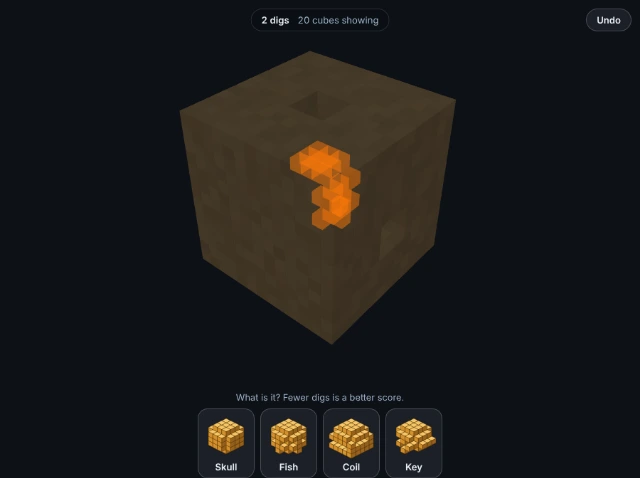
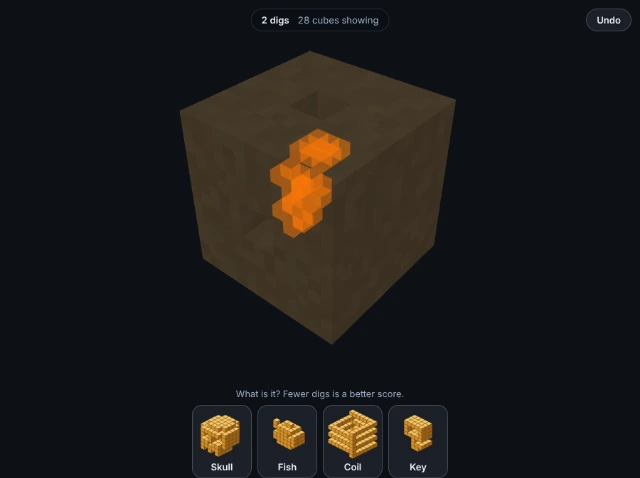
Voxel Digger: redraw the four shapes at seven cubes a side (#153)
At five cubes a side the shapes were blobs under a shared two-layer cap,
and none looked like its name: the skull's eye sockets were sealed
inside it. They are redrawn at seven with no shared cap: a skull with a
domed cranium, open sockets, a nose hole and teeth; a side-on fish with a
forked tail, fins and an eye; a coil that winds half a turn a layer; a
key with a ring, shaft and teeth. The cube edges are thinner and softer,
and the pictures scale with the shape size.

None of the four has a pocket sealed inside it, so dig_test stages one
for its control. The coil is hollow, so a drill down its middle finds
nothing; the touch suite now deals each shape in turn and works outward
from the middle, with the glow control fixed on the skull. The hub card
always deals the skull, so it is the same picture each time.

Claude-Session: https://claude.ai/code/session_01HqZ8yotHENtD7pp8pJBJoe

Changed region(s): [[0.3125, 0.8201, 0.6875, 1.0], [0.4062, 0.2636, 0.5625, 0.4979], [0.4062, 0.9958, 0.4375, 1.0]]

diff --git a/voxel-digger/block.ts b/voxel-digger/block.ts
@@ -37,7 +37,7 @@ export interface Block {
 }
 
 /** Every shape is authored in a cube this many cells on a side. */
-export const SHAPE_SIZE = 5
+export const SHAPE_SIZE = 7
 
 export function makeBlock(size: number, shapeSize = SHAPE_SIZE): Block {
   return { size, shapeSize, shapeMin: Math.floor((size - shapeSize) / 2) }
@@ -50,8 +50,10 @@ export function makeBlock(size: number, shapeSize = SHAPE_SIZE): Block {
  * surface and the find and the best possible round is three digs, which leaves
  * a score of "how few digs" almost nothing to say. Four cells of cover puts
  * the floor around five and gives a careful player somewhere to be careful.
- * (Written when a dig was one cube. A drill reaches the find in one tap
- * whatever the cover, #152; the cover is now what makes the find a surprise.)
+ * (Written when a dig was one cube and the shapes were five on a side. A
+ * drill reaches the find in one tap whatever the cover, #152, and the shapes
+ * are seven on a side, #153, under three cells of cover: enough to hide what
+ * is buried, in a block small enough that the find is most of what you see.)
  */
 export const BLOCK = makeBlock(13)
 
@@ -93,73 +95,79 @@ export interface Shape {
 /**
  * Four things that could be down there.
  *
- * What matters is not that they look different. Ruling a candidate out means
- * exposing one cell where it and the truth disagree — so every pair has to
- * disagree somewhere the player can actually *get to*. A difference sealed
- * inside the shape is invisible for ever: rock cannot be dug through the
- * buried object, so a pocket enclosed on all six faces by shape is unreachable
- * whatever the budget. The skull has two such pockets, its eye sockets, and
- * two candidates differing only there would be indistinguishable while
- * rendering as obviously different objects.
+ * Drawn seven cubes on a side (#153). At five they were blobs that shared
+ * their top two layers — a cap added so the first dig told nothing — and none
+ * of them looked like its name: the skull's eye sockets were sealed inside it.
+ * At seven there is room for the features a name promises, and each is drawn
+ * to be recognised from its front, which faces +z: the bottom row of every
+ * layer below.
  *
- * `dig_test.ts` puts that layout back and checks the solver cannot separate
- * it, because it is not a mistake anyone would catch by reading.
+ * What matters for play is not that they look different but that every pair
+ * disagrees somewhere the player can *get to*. A difference sealed inside a
+ * shape is invisible for ever: rock cannot be dug through the buried object,
+ * so a pocket enclosed on all six faces is unreachable. None of these has
+ * one, and `dig_test.ts` stages one to check it would be caught.
  */
-/**
- * The two top layers, which every candidate shares.
- *
- * Without this the puzzle was over on the third dig: the natural first move is
- * straight down, and whatever it uncovered was unique to one shape. Sharing
- * the cap means the first thing you reach tells you only that you have reached
- * it, and the shapes have to be told apart lower down or from the side —
- * which is what makes the digging a decision rather than a formality.
- */
-const CAP_TOP = ['.....', '.###.', '.###.', '.###.', '.....']
-const CAP_UPPER = ['.###.', '#####', '#####', '#####', '.###.']
-
 export const SHAPES: Shape[] = [
   {
     id: 'skull',
     name: 'Skull',
+    // A domed cranium over two open sockets, a nose hole, and a narrower jaw
+    // with a row of teeth.
     layers: [
-      ['.....', '.###.', '.#.#.', '.###.', '.....'],
-      ['.###.', '#####', '#.#.#', '#####', '.###.'],
-      ['.###.', '#####', '#####', '#####', '.###.'],
-      CAP_UPPER,
-      CAP_TOP,
+      ['.......', '.......', '..###..', '.#####.', '.#####.', '.#####.', '.#.#.#.'],
+      ['.......', '..###..', '.#####.', '.#####.', '.#####.', '.#####.', '.#####.'],
+      ['..###..', '.#####.', '#######', '#######', '#######', '###.###', '.##.##.'],
+      ['..###..', '.#####.', '#######', '#######', '#######', '#..#..#', '...#...'],
+      ['..###..', '.#####.', '#######', '#######', '#######', '#..#..#', '...#...'],
+      ['..###..', '.#####.', '#######', '#######', '#######', '#######', '.#####.'],
+      ['.......', '..###..', '.#####.', '.#####.', '.#####.', '..###..', '.......'],
     ],
   },
   {
     id: 'fish',
     name: 'Fish',
+    // Side-on: a forked tail at the left, a fin above and below, and an eye
+    // that goes clean through the head. The body is three cubes thick and the
+    // tail and fins one, so it reads as a fish from the side and as a blade
+    // from either end.
     layers: [
-      ['..#..', '.###.', '#####', '.###.', '..#..'],
-      ['.###.', '#####', '#####', '#####', '.###.'],
-      ['..#..', '.###.', '#####', '.###.', '..#..'],
-      CAP_UPPER,
-      CAP_TOP,
+      ['.......', '.......', '.......', '...##..', '.......', '.......', '.......'],
+      ['.......', '.......', '..####.', '#.####.', '..####.', '.......', '.......'],
+      ['.......', '.......', '..#####', '#######', '..#####', '.......', '.......'],
+      ['.......', '.......', '..#####', '.######', '..#####', '.......', '.......'],
+      ['.......', '.......', '..###.#', '#####.#', '..###.#', '.......', '.......'],
+      ['.......', '.......', '..####.', '#.####.', '..####.', '.......', '.......'],
+      ['.......', '.......', '.......', '...##..', '.......', '.......', '.......'],
     ],
   },
   {
     id: 'coil',
     name: 'Coil',
+    // A spring: one continuous strip winding up the outside, half a turn to
+    // a layer, around an empty middle.
     layers: [
-      ['#####', '#...#', '#...#', '#...#', '#####'],
-      ['....#', '....#', '....#', '....#', '....#'],
-      ['#####', '#....', '#....', '#....', '#####'],
-      CAP_UPPER,
-      CAP_TOP,
+      ['#######', '......#', '......#', '......#', '......#', '......#', '......#'],
+      ['#......', '#......', '#......', '#......', '#......', '#......', '#######'],
+      ['#######', '......#', '......#', '......#', '......#', '......#', '......#'],
+      ['#......', '#......', '#......', '#......', '#......', '#......', '#######'],
+      ['#######', '......#', '......#', '......#', '......#', '......#', '......#'],
+      ['#......', '#......', '#......', '#......', '#......', '#......', '#######'],
+      ['#######', '......#', '......#', '......#', '......#', '......#', '......#'],
     ],
   },
   {
     id: 'key',
     name: 'Key',
+    // Standing on its bit: a ring to hold it by, a shaft, and two teeth.
     layers: [
-      ['.###.', '.#.#.', '.###.', '..#..', '..#..'],
-      ['#####', '##.##', '#####', '.###.', '.#.#.'],
-      ['.###.', '.#.#.', '.###.', '..#..', '..#..'],
-      CAP_UPPER,
-      CAP_TOP,
+      ['.......', '.......', '...##..', '...##..', '...##..', '.......', '.......'],
+      ['.......', '.......', '...###.', '...###.', '...###.', '.......', '.......'],
+      ['.......', '.......', '...#...', '...#...', '...#...', '.......', '.......'],
+      ['.......', '.......', '.#####.', '.#####.', '.#####.', '.......', '.......'],
+      ['.......', '.......', '.#...#.', '.#...#.', '.#...#.', '.......', '.......'],
+      ['.......', '.......', '.#...#.', '.#...#.', '.#...#.', '.......', '.......'],
+      ['.......', '.......', '.#####.', '.#####.', '.#####.', '.......', '.......'],
     ],
   },
 ]

diff --git a/voxel-digger/dig_test.ts b/voxel-digger/dig_test.ts
@@ -11,10 +11,10 @@
 // budget is not the only thing that can make a layout unwinnable: two shapes
 // that differ *only* inside a pocket sealed on all six faces by shape cells
 // can never be told apart, because rock cannot be dug through the buried
-// object and the difference is behind it. No budget fixes that. The skull has
-// two such pockets — its eye sockets — so the layout is one edit away from
-// shipping, and it would render as two obviously different objects while being
-// literally indistinguishable in play.
+// object and the difference is behind it. No budget fixes that. The first
+// skull, five cubes on a side, had two such pockets — its eye sockets — so the
+// layout was one edit away from shipping two obviously different objects that
+// were literally indistinguishable in play.
 import {
   BLOCK,
   PROOF_BUDGET,
@@ -160,37 +160,56 @@ for (const shape of SHAPES) {
   )
 }
 
+/**
+ * A shape with one cube taken out of its solid middle: a pocket of rock
+ * sealed on all six faces by the shape itself.
+ *
+ * Staged rather than found. The five-cube skull had two of these by accident
+ * — its eye sockets — which is how the failure was first noticed; the shapes
+ * drawn in #153 have none, so the control builds its own.
+ */
+function hollowed(shape: Shape): Shape {
+  const has = (x: number, y: number, z: number) => shape.layers[y]?.[z]?.[x] === '#'
+  for (let y = 1; y < shape.layers.length - 1; y++) {
+    for (let z = 1; z < shape.layers[y].length - 1; z++) {
+      for (let x = 1; x < shape.layers[y][z].length - 1; x++) {
+        const buried =
+          has(x, y, z) && has(x - 1, y, z) && has(x + 1, y, z) && has(x, y - 1, z) && has(x, y + 1, z) && has(x, y, z - 1) && has(x, y, z + 1)
+        if (!buried) continue
+        return {
+          id: `${shape.id}-hollowed`,
+          name: `${shape.name} with a hollow`,
+          layers: shape.layers.map((plane, i) =>
+            i === y ? plane.map((line, j) => (j === z ? line.slice(0, x) + '.' + line.slice(x + 1) : line)) : plane,
+          ),
+        }
+      }
+    }
+  }
+  throw new Error(`${shape.name} has no solid middle to hollow`)
+}
+
 {
-  // The failure a budget cannot fix. `skull` has rock pockets sealed on all
-  // six faces by its own cells; a candidate that differs from it only there is
-  // unreachable however long you dig.
+  // The failure a budget cannot fix: a candidate that differs from another
+  // only in rock sealed inside it is unreachable however long you dig.
   const skull = SHAPES.find((s) => s.id === 'skull')
   if (!skull) throw new Error('the skull is gone')
   const cells = cellsOf(BLOCK, skull)
-  const sealed = allCells(BLOCK).filter(
-    (k) =>
-      !cells.has(k) &&
-      neighbours(BLOCK, k).length === 6 &&
-      neighbours(BLOCK, k).every((n) => cells.has(n)),
-  )
-  check('the skull really does have a sealed pocket', sealed.length > 0, `${sealed.length} of them`)
-
-  const { x, y, z } = unkey(BLOCK, sealed[0])
-  const layer = y - BLOCK.shapeMin
-  const row = z - BLOCK.shapeMin
-  const col = x - BLOCK.shapeMin
-  const filled: Shape = {
-    id: 'skull-filled',
-    name: 'Skull with one socket filled',
-    layers: skull.layers.map((plane, i) =>
-      i === layer
-        ? plane.map((line, j) =>
-            j === row ? line.slice(0, col) + '#' + line.slice(col + 1) : line,
-          )
-        : plane,
-    ),
+  const hollow = hollowed(skull)
+  const sealedIn = (shape: Shape) => {
+    const own = cellsOf(BLOCK, shape)
+    return allCells(BLOCK).filter(
+      (k) => !own.has(k) && neighbours(BLOCK, k).length === 6 && neighbours(BLOCK, k).every((n) => own.has(n)),
+    ).length
   }
-  const pair = [skull, filled]
+  check(
+    'none of the shapes has a pocket of rock sealed inside it',
+    SHAPES.every((s) => sealedIn(s) === 0),
+    SHAPES.map((s) => `${s.name} ${sealedIn(s)}`).join(', '),
+  )
+  check('and the staged one really does', sealedIn(hollow) === 1, `${sealedIn(hollow)} sealed pocket`)
+
+  const pair = [skull, hollow]
   check(
     'two shapes differing only inside a sealed pocket are caught',
     solve(skull, pair, PROOF_BUDGET * 4).left === 2,
@@ -198,7 +217,7 @@ for (const shape of SHAPES) {
   )
   check(
     'and they really are different shapes, not the same one twice',
-    cellsOf(BLOCK, filled).size === cells.size + 1,
+    cellsOf(BLOCK, hollow).size === cells.size - 1,
     'one cell apart, and invisible',
   )
 }
@@ -444,16 +463,12 @@ const differing = (a: string, b: string) => {
     `closest are ${where}: ${least} samples apart`,
   )
 
-  // Staged: the skull with one eye socket filled in. It is a different shape
-  // and no picture can show it — the socket is sealed inside.
+  // Staged: the skull with a cube missing from its solid middle. It is a
+  // different shape and no picture can show it — the hollow is sealed inside.
   const skull = SHAPES.find((s) => s.id === 'skull')
   if (!skull) throw new Error('the skull is gone')
-  const filled: Shape = {
-    ...skull,
-    id: 'skull-filled',
-    layers: skull.layers.map((layer, y) => (y === 1 ? layer.map((row, z) => (z === 2 ? '###.#' : row)) : layer)),
-  }
-  const same = FACINGS.every((f) => differing(silhouette(skull, f), silhouette(filled, f)) === 0)
+  const hollow = hollowed(skull)
+  const same = FACINGS.every((f) => differing(silhouette(skull, f), silhouette(hollow, f)) === 0)
   check('and two shapes that differ only inside draw the same, so the check can tell', same)
 
   // A quarter-turn is a real turn: the key is not symmetrical, so its picture

diff --git a/voxel-digger/hud.ts b/voxel-digger/hud.ts
@@ -8,13 +8,13 @@
 // end the moment the count reached one, and the decision the score is about
 // ("have I seen enough?") would be gone.
 import { SHAPES, type VoxelGame } from './game'
-import type { Shape } from './block'
+import { SHAPE_SIZE, type Shape } from './block'
 import { shapePolygons, type Face, type Facing } from './preview'
 import { loadDiggerSave, recordFind } from './save'
 
 /** A picture's edge in CSS pixels, and the cube edges it has to hold. */
-const PICTURE = 66
-const PICTURE_SPAN = 10.6
+const PICTURE = 72
+const PICTURE_SPAN = 2 * SHAPE_SIZE + 0.6
 
 const FACE_FILL: Record<Face, string> = { cap: '#f6c666', left: '#d48f2a', right: '#96601a' }
 
@@ -26,11 +26,11 @@ function drawPicture(canvas: HTMLCanvasElement, shape: Shape, facing: Facing) {
   if (!ctx) return
   const scale = canvas.width / PICTURE_SPAN
   ctx.clearRect(0, 0, canvas.width, canvas.height)
-  // The picture spans five cubes either side of centre across, and from five
-  // up to five down — or ten up, seen from below.
-  const midY = facing.below ? -5 : 0
-  ctx.lineWidth = Math.max(0.75, ratio * 0.45)
-  ctx.strokeStyle = 'rgba(40, 24, 4, 0.4)'
+  // The picture spans the shape's size either side of centre across, and from
+  // that far up to that far down — or twice that up, seen from below.
+  const midY = facing.below ? -SHAPE_SIZE : 0
+  ctx.lineWidth = Math.max(0.5, ratio * 0.35)
+  ctx.strokeStyle = 'rgba(40, 24, 4, 0.32)'
   ctx.lineJoin = 'round'
   for (const poly of shapePolygons(shape, facing)) {
     ctx.beginPath()

diff --git a/voxel-digger/style.css b/voxel-digger/style.css
@@ -60,12 +60,12 @@
   flex-direction: column;
   align-items: center;
   gap: 2px;
-  padding: 5px 6px 7px;
+  padding: 4px 5px 7px;
   border-radius: 14px;
   font-size: 0.82rem;
 }
 /* A picture of the candidate, redrawn for the side the block is seen from. */
-.vd-picture { width: min(66px, 17vw); height: min(66px, 17vw); display: block; }
+.vd-picture { width: min(72px, 18vw); height: min(72px, 18vw); display: block; }
 .vd-guess-row { flex-wrap: nowrap; }
 
 /* On the narrowest phones the centred status runs into the back link. */

diff --git a/voxel-digger/game.ts b/voxel-digger/game.ts
@@ -126,8 +126,10 @@ function edgedFace(): THREE.Texture {
   if (ctx) {
     ctx.fillStyle = '#ffffff'
     ctx.fillRect(0, 0, size, size)
-    ctx.strokeStyle = 'rgba(70, 38, 0, 0.75)'
-    ctx.lineWidth = 6
+    // Thin and soft. At seven cubes a side a heavy edge is a grid drawn over
+    // the shape, and the grid is what you see instead of it (#153).
+    ctx.strokeStyle = 'rgba(70, 38, 0, 0.5)'
+    ctx.lineWidth = 3
     ctx.strokeRect(0, 0, size, size)
   }
   const texture = new THREE.CanvasTexture(canvas)

diff --git a/CLAUDE.md b/CLAUDE.md
@@ -297,6 +297,15 @@ brush drops out of the game and off the hub badge, as Minigolf's does when its
 course changes. The overlay holds canvases too now, so select the game's own
 with `#stage > canvas`.
 
+**Voxel Digger's shapes are seven cubes a side and share nothing (#153).** At
+five they were blobs under a common two-layer cap, and none looked like its
+name. They are redrawn to be recognised: a skull with open sockets, a side-on
+fish, a coil that winds, a key. Two things follow. The coil is hollow, so a
+drill down its middle finds nothing; any check that taps must not assume the
+first tap hits. And which shape is buried is random, so the touch suite deals
+each of the four in turn and the hub card always deals the skull. A check that
+passes on three shapes in four is a flake waiting to happen.
+
 **Tube Runner's steering moves the runner, not the tube (#145).** The camera
 used to sit at the runner's angle every frame, which pinned them to the middle
 of the screen, so steering showed only as the tube turning. It trails now: the
